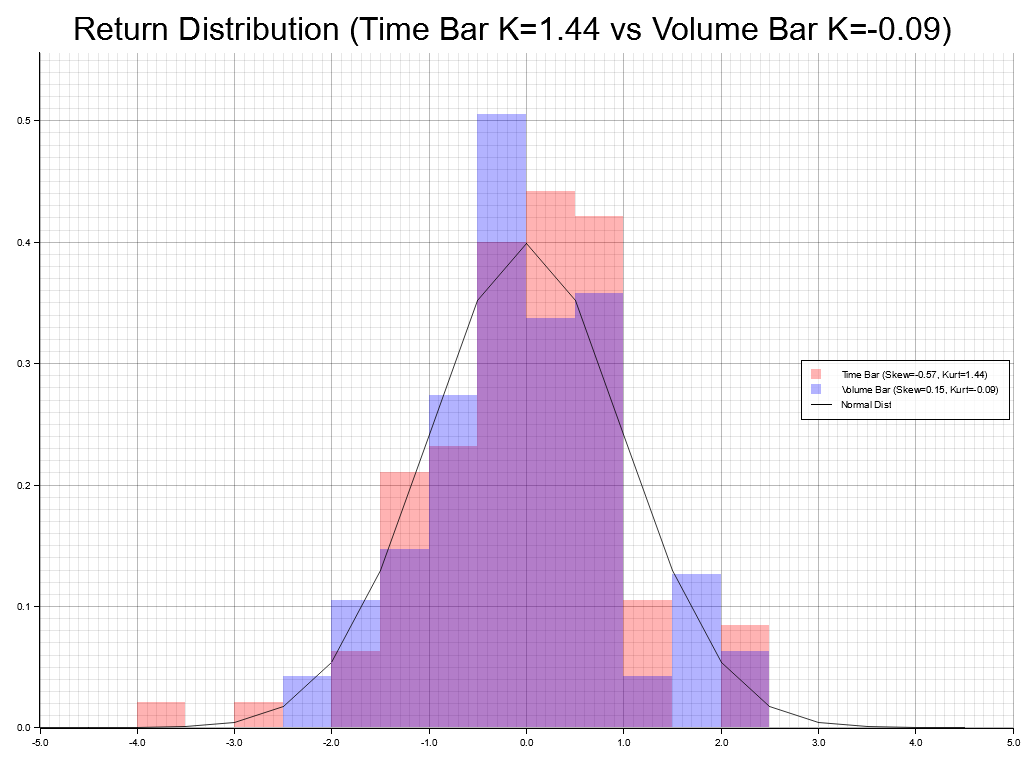
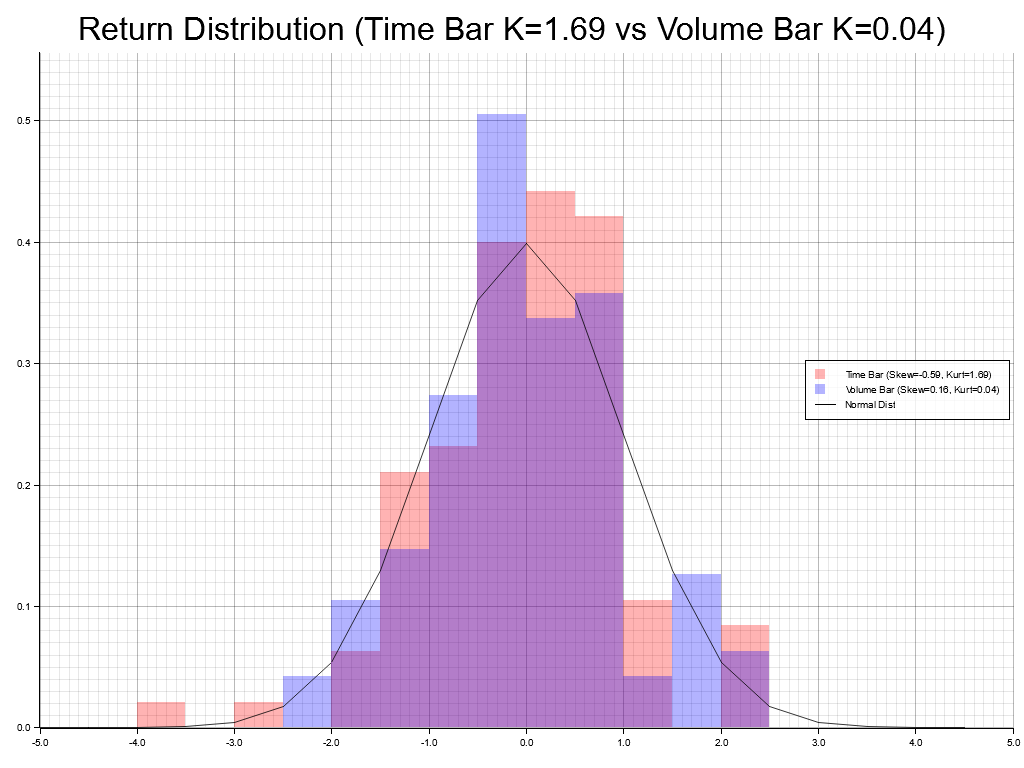
changed logic calculate skewness and kurtosis

Changed region(s): [[0.0625, 0.0, 0.9375, 0.0625], [0.7812, 0.4688, 0.9688, 0.5312]]

diff --git a/src/ch2/tick_imbalance_bar.rs b/src/ch2/tick_imbalance_bar.rs
@@ -1,0 +1,201 @@
+use crate::config;
+use crate::base::{Bar, read_trades, Trade, draw_chart_file};
+use crate::ch2::time_bar::compute_time_bars;
+use std::error::Error;
+use chrono::{Utc, TimeZone};
+use plotters::prelude::*;
+
+pub fn compute_tick_imbalance_bars(trades: &[Trade], initial_expected_ticks: f64) -> Vec<Bar> {
+    if trades.is_empty() {
+        return Vec::new();
+    }
+
+    let mut bars = Vec::new();
+    let mut current_imbalance: f64 = 0.0;
+    let mut current_ticks: f64 = 0.0;
+    
+    let mut open = trades[0].price;
+    let mut high = trades[0].price;
+    let mut low = trades[0].price;
+    let mut close = trades[0].price;
+    let mut volume = 0.0;
+    let mut start_timestamp = trades[0].timestamp;
+    
+    let mut prev_price = trades[0].price;
+    let mut prev_tick_rule = 1.0; // Init as buy
+    
+    let mut is_new_bar = true;
+
+    // EWMA parameters
+    let alpha = 0.05; // Smoothing factor (approx 20 bars)
+    let mut ewma_expected_ticks = initial_expected_ticks;
+    let mut ewma_expected_imbalance_per_tick: f64 = 0.5; // Initial guess for |2P[b=1]-1|
+
+    for trade in trades {
+        if is_new_bar {
+            open = trade.price;
+            high = trade.price;
+            low = trade.price;
+            // close is updated every trade
+            volume = 0.0;
+            start_timestamp = trade.timestamp;
+            is_new_bar = false;
+            current_ticks = 0.0;
+        }
+
+        // 1. Calculate Tick Rule
+        let tick_rule = if trade.price > prev_price {
+            1.0
+        } else if trade.price < prev_price {
+            -1.0
+        } else {
+            prev_tick_rule
+        };
+        prev_tick_rule = tick_rule;
+        prev_price = trade.price;
+
+        // 2. Accumulate Imbalance
+        current_imbalance += tick_rule;
+        current_ticks += 1.0;
+
+        // Update Bar stats
+        high = high.max(trade.price);
+        low = low.min(trade.price);
+        close = trade.price;
+        volume += trade.amount;
+
+        // 3. Check Threshold
+        // Threshold = E[T] * |2P[b=1] - 1|
+        let threshold = ewma_expected_ticks * ewma_expected_imbalance_per_tick.abs();
+        
+        if current_imbalance.abs() >= threshold {
+            bars.push(Bar {
+                time: Utc.timestamp_micros(trade.timestamp as i64).unwrap(), // Use current trade time (end of bar)
+                open,
+                high,
+                low,
+                close,
+                volume,
+            });
+
+            // Update EWMA
+            ewma_expected_ticks = alpha * current_ticks + (1.0 - alpha) * ewma_expected_ticks;
+            
+            let current_imbalance_per_tick = current_imbalance / current_ticks;
+            ewma_expected_imbalance_per_tick = alpha * current_imbalance_per_tick + (1.0 - alpha) * ewma_expected_imbalance_per_tick;
+
+            // Reset
+            current_imbalance = 0.0;
+            is_new_bar = true;
+        }
+    }
+    
+    bars
+}
+
+pub fn draw_tick_imbalance_bar() -> Result<(), Box<dyn Error>> {
+    let file_path = config::TARDIS_CSV_PATH;
+    println!("Reading trades from {}...", file_path);
+    let trades = read_trades(file_path)?;
+    println!("Read {} trades.", trades.len());
+
+    // 1. Compute Time Bars (for background context)
+    let time_interval_minutes = 15;
+    println!("Computing {} minute time bars...", time_interval_minutes);
+    let time_bars = compute_time_bars(&trades, time_interval_minutes);
+    println!("Generated {} time bars.", time_bars.len());
+
+    // 2. Compute Tick Imbalance Bars
+    // Initial guess for expected ticks per bar
+    // Lower initial guess to generate more bars initially
+    let initial_expected_ticks = trades.len() as f64 / 1000.0; 
+    
+    println!("Computing Tick Imbalance Bars with dynamic threshold (init T={})...", initial_expected_ticks);
+    let imbalance_bars = compute_tick_imbalance_bars(&trades, initial_expected_ticks);
+    println!("Generated {} tick imbalance bars.", imbalance_bars.len());
+
+    let output_path = "src/ch2/result/tick_imbalance_bars.png";
+    println!("Drawing chart to {}...", output_path);
+    
+    draw_overlay_chart(&time_bars, &imbalance_bars, output_path)?;
+    
+    println!("Chart saved to {}", output_path);
+
+    // Open file
+    #[cfg(target_os = "windows")]
+    std::process::Command::new("cmd")
+        .args(&["/C", "start", output_path])
+        .spawn()?;
+
+    #[cfg(target_os = "macos")]
+    std::process::Command::new("open")
+        .arg(output_path)
+        .spawn()?;
+
+    #[cfg(target_os = "linux")]
+    std::process::Command::new("xdg-open")
+        .arg(output_path)
+        .spawn()?;
+
+    Ok(())
+}
+
+fn draw_overlay_chart(
+    time_bars: &[Bar],
+    imbalance_bars: &[Bar],
+    output_path: &str,
+) -> Result<(), Box<dyn Error>> {
+    let root = BitMapBackend::new(output_path, (1280, 768)).into_drawing_area();
+    root.fill(&WHITE)?;
+
+    let min_time = time_bars.first().unwrap().time;
+    let max_time = time_bars.last().unwrap().time;
+    
+    let min_price = time_bars.iter().map(|b| b.low).fold(f64::INFINITY, f64::min);
+    let max_price = time_bars.iter().map(|b| b.high).fold(f64::NEG_INFINITY, f64::max);
+
+    let mut chart = ChartBuilder::on(&root)
+        .caption("Tick Imbalance Bars (Red Dots) vs 15m Time Bars (Candle)", ("sans-serif", 30).into_font())
+        .margin(20)
+        .x_label_area_size(40)
+        .y_label_area_size(40)
+        .build_cartesian_2d(min_time..max_time, min_price..max_price)?;
+
+    chart.configure_mesh().draw()?;
+
+    // 1. Draw Time Bars as CandleStick
+    chart.draw_series(
+        time_bars.iter().map(|bar| {
+            CandleStick::new(
+                bar.time,
+                bar.open,
+                bar.high,
+                bar.low,
+                bar.close,
+                RGBColor(98, 209, 61).filled(),
+                RGBColor(209, 61, 61).filled(),
+                5,
+            )
+        })
+    )?;
+
+    // 2. Draw Tick Imbalance Bars as Points
+    chart.draw_series(
+        imbalance_bars.iter().map(|b| {
+            Circle::new(
+                (b.time, b.close),
+                4,
+                BLUE.filled(),
+            )
+        })
+    )?
+    .label("Tick Imbalance Bar")
+    .legend(|(x, y)| Circle::new((x + 10, y), 4, BLUE.filled()));
+
+    chart.configure_series_labels()
+        .background_style(&WHITE.mix(0.8))
+        .border_style(&BLACK)
+        .draw()?;
+
+    Ok(())
+}

diff --git a/src/main.rs b/src/main.rs
@@ -1,8 +1,67 @@
+use std::env;
+
 mod config;
 pub mod base;
 mod ch2;
 
 fn main() {
+    let args: Vec<String> = env::args().collect();
+
+    if args.len() < 2 {
+        print_usage();
+        return;
+    }
+
+    let command = &args[1];
+
+    match command.as_str() {
+        "time" => {
+            println!("\n--- Time Bar ---");
+            if let Err(e) = ch2::draw_time_bar() {
+                eprintln!("Error in Time Bar: {}", e);
+            }
+        }
+        "tick" => {
+            println!("\n--- Tick Bar ---");
+            if let Err(e) = ch2::draw_tick_bar() {
+                eprintln!("Error in Tick Bar: {}", e);
+            }
+        }
+        "volume" => {
+            println!("\n--- Volume Bar ---");
+            if let Err(e) = ch2::draw_volume_bar() {
+                eprintln!("Error in Volume Bar: {}", e);
+            }
+        }
+        "dollar" => {
+            println!("\n--- Dollar Bar ---");
+            if let Err(e) = ch2::draw_dollar_bar() {
+                eprintln!("Error in Dollar Bar: {}", e);
+            }
+        }
+        "imbalance" => {
+            println!("\n--- Tick Imbalance Bar ---");
+            if let Err(e) = ch2::draw_tick_imbalance_bar() {
+                eprintln!("Error in Tick Imbalance Bar: {}", e);
+            }
+        }
+        "compare" => {
+            println!("\n--- Compare Distribution ---");
+            if let Err(e) = ch2::run_compare_distribution() {
+                eprintln!("Error in Compare Distribution: {}", e);
+            }
+        }
+        "all" => {
+            run_all();
+        }
+        _ => {
+            println!("Unknown command: {}", command);
+            print_usage();
+        }
+    }
+}
+
+fn run_all() {
     println!("AFML in Rust - Chapter Examples");
 
     println!("\n--- Time Bar ---");
@@ -25,8 +84,25 @@ fn main() {
         eprintln!("Error in Dollar Bar: {}", e);
     }
 
+    println!("\n--- Tick Imbalance Bar ---");
+    if let Err(e) = ch2::draw_tick_imbalance_bar() {
+        eprintln!("Error in Tick Imbalance Bar: {}", e);
+    }
+
     println!("\n--- Compare Distribution ---");
     if let Err(e) = ch2::run_compare_distribution() {
         eprintln!("Error in Compare Distribution: {}", e);
     }
+}
+
+fn print_usage() {
+    println!("Usage: cargo run -- <command>");
+    println!("Commands:");
+    println!("  time       - Generate Time Bars");
+    println!("  tick       - Generate Tick Bars");
+    println!("  volume     - Generate Volume Bars");
+    println!("  dollar     - Generate Dollar Bars");
+    println!("  imbalance  - Generate Tick Imbalance Bars");
+    println!("  compare    - Compare Distributions");
+    println!("  all        - Run all examples");
 }

diff --git a/src/ch2/compare_distribution.rs b/src/ch2/compare_distribution.rs
@@ -14,18 +14,28 @@ struct Stats {
 
 fn compute_stats(data: &[f64]) -> Stats {
     let n = data.len() as f64;
-    if n <= 2.0 { return Stats { skewness: 0.0, kurtosis: 0.0 }; }
+    if n < 4.0 { return Stats { skewness: 0.0, kurtosis: 0.0 }; }
     
     let mean = data.iter().sum::<f64>() / n;
     let variance = data.iter().map(|x| (x - mean).powi(2)).sum::<f64>() / (n - 1.0);
     let std_dev = variance.sqrt();
+
+    if std_dev == 0.0 {
+        return Stats { skewness: 0.0, kurtosis: 0.0 };
+    }
     
-    let skewness = data.iter().map(|x| ((x - mean) / std_dev).powi(3)).sum::<f64>() / n;
-    let kurtosis = data.iter().map(|x| ((x - mean) / std_dev).powi(4)).sum::<f64>() / n;
+    // Unbiased Estimator for Skewness
+    let sum_pow3 = data.iter().map(|x| ((x - mean) / std_dev).powi(3)).sum::<f64>();
+    let skewness = (n / ((n - 1.0) * (n - 2.0))) * sum_pow3;
+
+    // Unbiased Estimator for Excess Kurtosis
+    let sum_pow4 = data.iter().map(|x| ((x - mean) / std_dev).powi(4)).sum::<f64>();
+    let kurtosis = (n * (n + 1.0) / ((n - 1.0) * (n - 2.0) * (n - 3.0))) * sum_pow4
+                 - (3.0 * (n - 1.0).powi(2) / ((n - 2.0) * (n - 3.0)));
     
     Stats {
         skewness,
-        kurtosis: kurtosis - 3.0, // Excess Kurtosis
+        kurtosis,
     }
 }
 

diff --git a/src/ch2/mod.rs b/src/ch2/mod.rs
@@ -2,10 +2,12 @@ pub mod time_bar;
 pub mod tick_bar;
 pub mod volume_bar;
 pub mod dollar_bar;
+pub mod tick_imbalance_bar;
 pub mod compare_distribution;
 
 pub use time_bar::draw_time_bar;
 pub use tick_bar::draw_tick_bar;
 pub use volume_bar::draw_volume_bar;
 pub use dollar_bar::draw_dollar_bar;
+pub use tick_imbalance_bar::draw_tick_imbalance_bar;
 pub use compare_distribution::run_compare_distribution;

diff --git a/README.md b/README.md
@@ -1,0 +1,52 @@
+# AFML in Rust
+
+This project implements concepts from "Advances in Financial Machine Learning" using Rust.
+
+## Usage
+
+Run the project using `cargo run` followed by a command to execute specific examples.
+
+```bash
+cargo run -- <command>
+```
+
+### Available Commands
+
+| Command | Description |
+|---------|-------------|
+| `time` | Generate and plot Time Bars (15-minute intervals). |
+| `tick` | Generate and plot Tick Bars. |
+| `volume` | Generate and plot Volume Bars. |
+| `dollar` | Generate and plot Dollar Bars. |
+| `imbalance` | Generate and plot Tick Imbalance Bars (overlaid on Time Bars). |
+| `compare` | Compare statistical distributions of different bar types. |
+| `all` | Run all of the above examples sequentially. |
+
+### Examples
+
+**Generate Tick Imbalance Bars:**
+```bash
+cargo run -- imbalance
+```
+
+**Compare Distributions:**
+```bash
+cargo run -- compare
+```
+
+**Run Everything:**
+```bash
+cargo run -- all
+```
+
+## Project Structure
+
+- `src/base`: Common data structures and utilities (Trade, Bar, CSV reading).
+- `src/ch2`: Chapter 2 implementations (Financial Data Structures).
+  - `time_bar.rs`: Time Bars
+  - `tick_bar.rs`: Tick Bars
+  - `volume_bar.rs`: Volume Bars
+  - `dollar_bar.rs`: Dollar Bars
+  - `tick_imbalance_bar.rs`: Tick Imbalance Bars
+  - `compare_distribution.rs`: Statistical comparison
+- `data/`: Input CSV data files.
